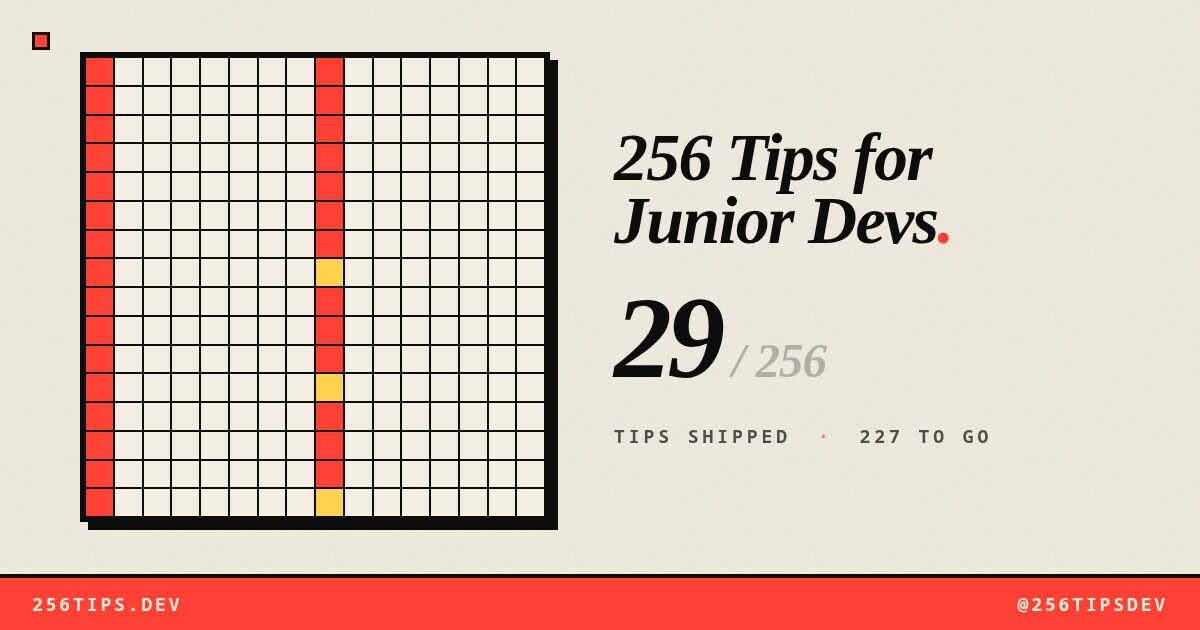
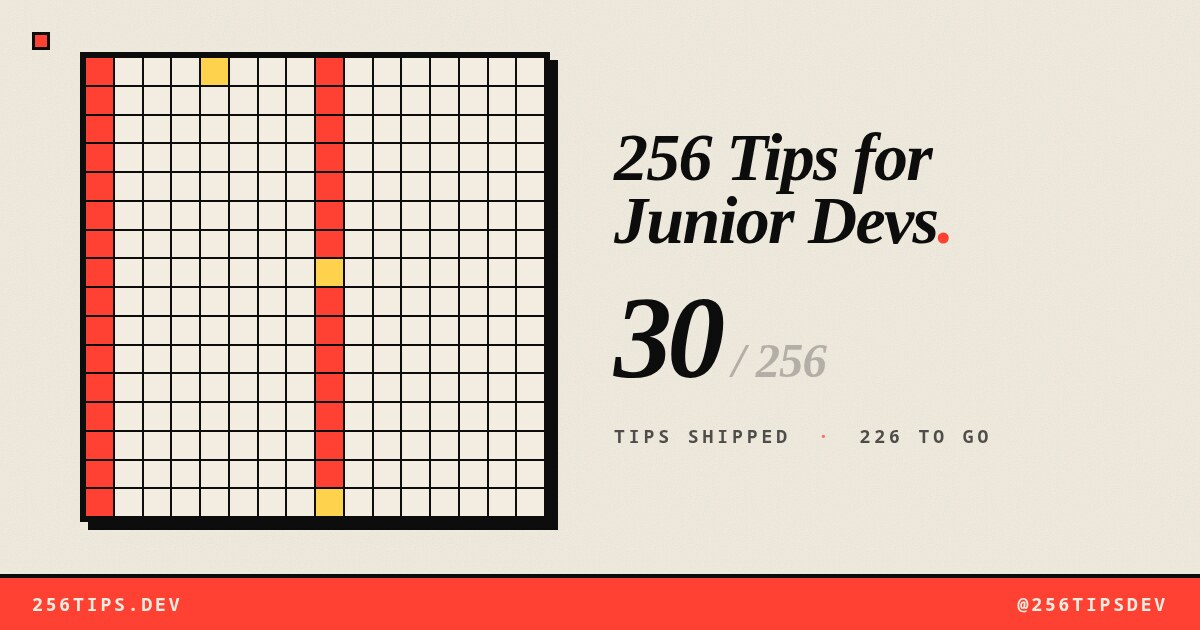
256tipsdev: add Tip 184 — Use a Whiteboard

Changed region(s): [[0.4933, 0.4825, 0.6167, 0.6032], [0.2467, 0.573, 0.3083, 0.6333], [0.1542, 0.0905, 0.2158, 0.1508]]

diff --git a/256tipsdev/use-a-whiteboard.md b/256tipsdev/use-a-whiteboard.md
@@ -1,0 +1,28 @@
+---
+layout: tip.vto
+title: "Use a Whiteboard"
+tip_number: 184
+date: 2026-08-05 12:00:00
+description: "In the age of AI, your IDE is not your main tool anymore. Before you type the first line, stand up and draw your thinking on a whiteboard."
+tags:
+- tip
+- junior-devs
+- craft
+- tools
+- collaboration
+url: /use-a-whiteboard/
+---
+
+In the age of AI, an IDE is not your main tool anymore. A whiteboard is.
+
+LLMs now write more and more code. And humans spend more and more time *thinking* about systems.
+
+And what is the best tool to use for systems thinking? A whiteboard. As low-tech as it can possibly be.
+
+I visited an Amazon office in Vancouver the other day (my former student took me for a tour!). Do you know what they have in every elevator? You guessed right. A whiteboard, to sketch some boxes and arrows.
+
+When you start solving your next LeetCode problem (see [Tip 64](/have-fun-with-leetcode/)) -- before you type your first line of code -- stand up and get to a whiteboard (or a blackboard if you're cool). Start *drawing* your thoughts -- that will force your brain to think.
+
+Whiteboards are also fantastic for collaborative work. When you're alone, a pen and paper are often enough. But when you're working with others (see [Tip 192](/dont-build-alone/)), nothing beats a big vertical canvas, waiting for what y'all have in mind!
+
+A fancier IDE will not make you a better developer. A good old whiteboard will.
